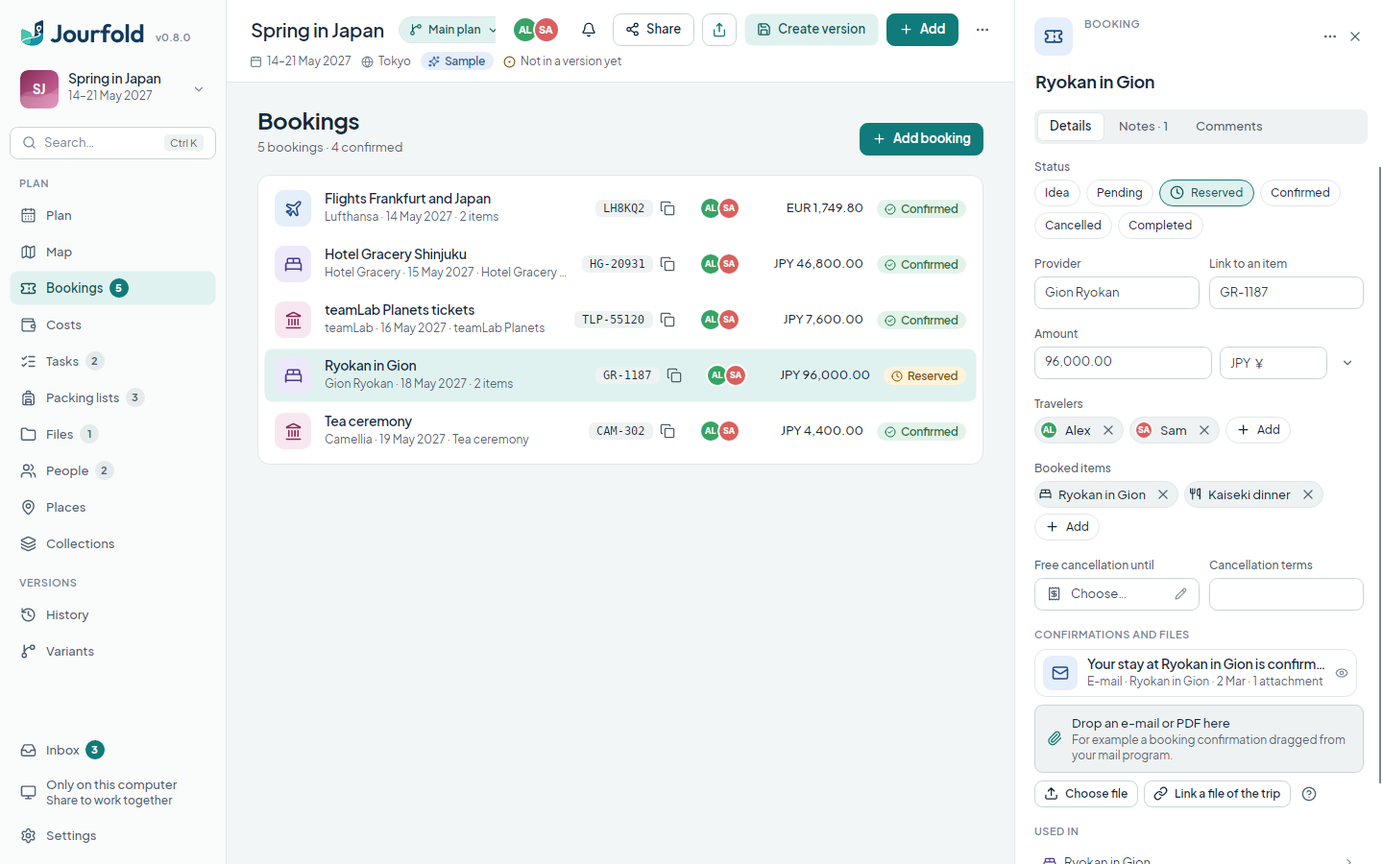
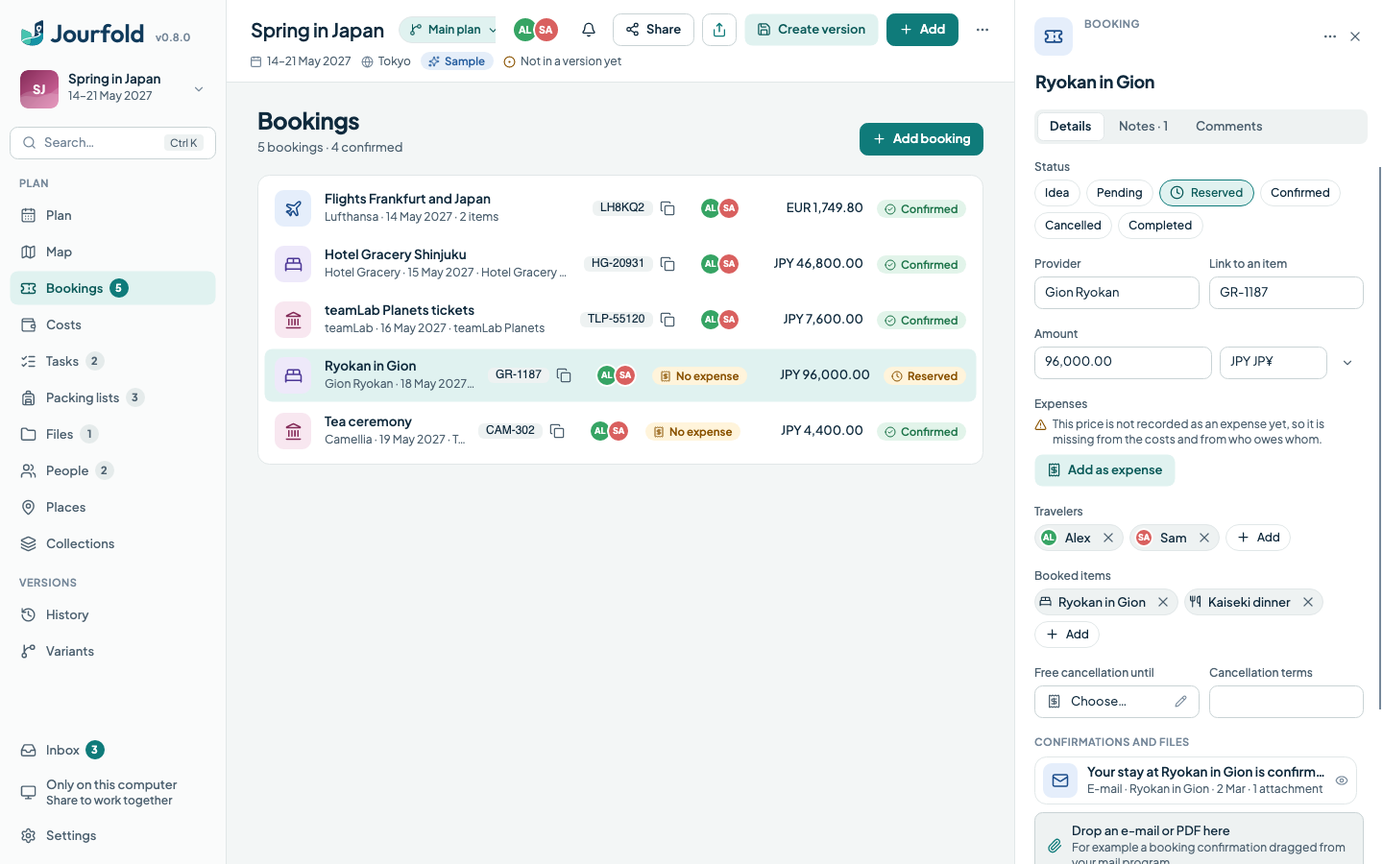
Bookings with a price but no expense are marked and become expenses in one step
The bookings list marks them No expense, their details say why it
matters and offer Add as expense, and the Costs page lists them with a
button each. The button opens the expense form filled in with the
booking's title, price and currency, paid by the local user, and the new
expense belongs to the booking. The sample trip links its paid expenses
to their bookings; the costs and booking screenshots are refreshed.

diff --git a/src/Jourfold.Desktop/Views/CollectionViews.cs b/src/Jourfold.Desktop/Views/CollectionViews.cs
@@ -51,6 +51,7 @@ public static class CollectionViews
         var bookings = trip.Entities.Values.Where(e => e.Type == "booking").OrderBy(e => (e.Data["items"] as JsonArray ?? []).Select(i => Guid.TryParse(i?.ToString(), out var id) && trip.Find(id) is { } item ? ScheduleQueries.Span(trip, item).Start : null).Where(x => x is not null).Min() ?? Instant.MaxValue).ToArray();
         if (bookings.Length == 0) return Page(w, s["Bookings"], s["BookingsHint"], Ui.Card(Ui.EmptyState("ticket", s["NoBookingsTitle"], s["NoBookingsBody"], AddButton(w, s["AddBooking"], "booking")), 0));
         var list = Ui.V(2);
+        var missing = Expenses.WithoutExpense(trip).Select(b => b.Id).ToHashSet();
         foreach (var b in bookings)
         {
             var items = (b.Data["items"] as JsonArray ?? []).Select(i => Guid.TryParse(i?.ToString(), out var id) ? trip.Find(id) : null).OfType<Entity>().ToArray();
@@ -62,10 +63,11 @@ public static class CollectionViews
             var copy = reference is null ? null : Ui.IconButton("copy", s["CopyReference"], "small").Also(c => c.Click += async (_, _) => { await m.Interaction.CopyAsync(reference); m.Interaction.Toast(s["Copied"]); });
             var refPill = reference is null ? null : Ui.H(2, new Border { Child = Ui.Text(reference).Also(t => { t.FontFamily = FontFamily.Parse("monospace"); t.FontSize = 12; }), Padding = new Thickness(8, 2), CornerRadius = new CornerRadius(6) }.Res(Border.BackgroundProperty, "Bg.Subtle"), copy);
             var travelers = PeopleNames(trip, b.Data["travelers"]).ToArray();
-            var grid = Ui.Columns("Auto,*,Auto,Auto,120,Auto",
+            var grid = Ui.Columns("Auto,*,Auto,Auto,Auto,120,Auto",
                 Ui.Tile(icon, kind, 38).Margin(0, 0, 14, 0),
                 Ui.V(2, Ui.Line(b.Title, "title"), Ui.Line(string.Join(" · ", new[] { b.Data["provider"]?["name"]?.ToString(), when, items.Length > 1 ? string.Format(s["ItemsCount"], items.Length) : items.FirstOrDefault()?.Title }.Where(x => !string.IsNullOrEmpty(x))), "caption")),
                 refPill?.Margin(12, 0), travelers.Length > 0 ? Ui.AvatarStack(travelers, 24).Margin(8, 0) : null,
+                ExpenseViews.MissingExpensePill(s, missing, b)?.Margin(8, 0),
                 Ui.Text(price, "strong").Also(t => { t.HorizontalAlignment = HorizontalAlignment.Right; t.TextAlignment = TextAlignment.Right; }),
                 Ui.Pill(s[status], si, sb, sf).Margin(14, 0, 0, 0));
             list.Children.Add(Row(w, b, grid));
@@ -81,7 +83,7 @@ public static class CollectionViews
         var expenses = trip.Entities.Values.Where(e => e.Type == "expense").OrderBy(e => e.Title, StringComparer.CurrentCulture).ToArray();
         var budgets = trip.Entities.Values.Where(e => e.Type == "budget").ToArray();
         var actions = new Control[] { AddButton(w, s["AddBudget"], "budget", false), AddButton(w, s["AddExpense"], "expense") };
-        if (expenses.Length == 0 && budgets.Length == 0) return Page(w, s["Costs"], s["CostsHint"], Ui.V(20, Ui.Card(Ui.EmptyState("wallet", s["NoCostsTitle"], s["NoCostsBody"], actions), 0), ConverterCard(w)));
+        if (expenses.Length == 0 && budgets.Length == 0) return Page(w, s["Costs"], s["CostsHint"], Ui.V(20, Ui.Card(Ui.EmptyState("wallet", s["NoCostsTitle"], s["NoCostsBody"], actions), 0), ExpenseViews.MissingExpenses(w), ConverterCard(w)));
         var tiles = new WrapPanel { ItemSpacing = 14, LineSpacing = 14 };
         foreach (var total in totals)
         {
@@ -117,7 +119,7 @@ public static class CollectionViews
             list.Children.Add(Row(w, e, grid));
         }
         var note = Ui.H(6, Ui.Icon("info", 13, "Text.Subtle"), Ui.Text(s["NoAutoConversion"], "caption"));
-        return Page(w, s["Costs"], s["CostsHint"], Ui.V(20, tiles, ExpenseViews.WhoOwesWhom(w), ConverterCard(w), Ui.Card(list, 6), note), actions);
+        return Page(w, s["Costs"], s["CostsHint"], Ui.V(20, tiles, ExpenseViews.WhoOwesWhom(w), ExpenseViews.MissingExpenses(w), ConverterCard(w), Ui.Card(list, 6), note), actions);
     }
 
     /// <summary>

diff --git a/src/Jourfold.Desktop/Views/ExpenseViews.cs b/src/Jourfold.Desktop/Views/ExpenseViews.cs
@@ -242,6 +242,44 @@ public static class ExpenseViews
         return Ui.Card(body, 18).Also(c => c.Width = 300);
     }
 
+    /// <summary>In a booking's details: the expenses recorded for it, or, when it has a price but none, a note and a button to add one.</summary>
+    public static Control? BookingExpenses(MainWindow w, Entity booking)
+    {
+        var m = w.Model; var s = m.Strings; var trip = m.Trip!;
+        if (Expenses.WithoutExpense(trip).Any(b => b.Id == booking.Id))
+        {
+            var add = Ui.Button(s["AddAsExpense"], "receipt", "soft").Also(b => b.HorizontalAlignment = HorizontalAlignment.Left);
+            add.Click += (_, _) => _ = m.AddExpenseForBookingAsync(booking.Id);
+            return Ui.V(8, Notice("triangle-alert", "Warning", s["BookingNoExpense"]), add);
+        }
+        var expenses = Expenses.ForBooking(trip, booking.Id);
+        return expenses.Count == 0 ? null : Ui.V(2, expenses.Select(e => (Control)InspectorView.Link(w, e)).ToArray());
+    }
+
+    /// <summary>A pill for the bookings list when a booking's price is not recorded as an expense yet.</summary>
+    public static Control? MissingExpensePill(Localization s, IReadOnlySet<Guid> missing, Entity booking) =>
+        missing.Contains(booking.Id) ? Ui.Pill(s["NoExpenseYet"], "receipt", "Warning.Soft", "Warning") : null;
+
+    /// <summary>On the Costs page: bookings with a price but no expense, each with a button that records it.</summary>
+    public static Control? MissingExpenses(MainWindow w)
+    {
+        var m = w.Model; var s = m.Strings; var trip = m.Trip!;
+        var missing = Expenses.WithoutExpense(trip);
+        if (missing.Count == 0) return null;
+        var list = Ui.V(4);
+        foreach (var booking in missing)
+        {
+            var price = TripSummaries.Money(booking.Data["price"])!;
+            var add = Ui.Button(s["AddAsExpense"], "plus", "small");
+            AutomationProperties.SetName(add, string.Format(s["AddAsExpenseFor"], booking.Title));
+            add.Click += (_, _) => _ = m.AddExpenseForBookingAsync(booking.Id);
+            list.Children.Add(Ui.Columns("*,Auto,Auto", Ui.Line(booking.Title).Also(t => t.VerticalAlignment = VerticalAlignment.Center), Ui.Text(Formats.Money(price.Amount, price.Currency), "strong").Margin(12, 0).Also(t => t.VerticalAlignment = VerticalAlignment.Center), add));
+        }
+        var heading = Ui.Columns("Auto,*", Ui.Icon("triangle-alert", 15, "Warning").Margin(0, 2, 8, 0).Also(i => i.VerticalAlignment = VerticalAlignment.Top),
+            Ui.V(2, Ui.Text(missing.Count == 1 ? s["BookingsWithoutExpenseOne"] : string.Format(s["BookingsWithoutExpense"], missing.Count), "h3"), Ui.Text(s["BookingsWithoutExpenseHint"], "caption").Also(t => t.TextWrapping = TextWrapping.Wrap)));
+        return Ui.Card(Ui.V(12, heading, list), 18);
+    }
+
     private static Control Notice(string icon, string brush, string text) =>
         Ui.Columns("Auto,*", Ui.Icon(icon, 13, brush).Margin(0, 2, 6, 0).Also(i => i.VerticalAlignment = VerticalAlignment.Top), Ui.Text(text, "caption").Also(t => t.TextWrapping = TextWrapping.Wrap));
 }

diff --git a/src/Jourfold.Desktop/Dialogs/Dialogs.Create.cs b/src/Jourfold.Desktop/Dialogs/Dialogs.Create.cs
@@ -126,7 +126,7 @@ public sealed partial class Dialogs
     {
         var s = S; var kind = QuickKinds.Any(k => k.Kind == request.Kind) ? request.Kind : request.Kind == "budget" ? "budget" : "activity";
         var trip = request.Trip;
-        var title = new TextBox { MinHeight = 40, FontSize = 15, Tag = "title" }; AutomationProperties.SetName(title, s["Title"]);
+        var title = new TextBox { MinHeight = 40, FontSize = 15, Tag = "title", Text = request.Title ?? "" }; AutomationProperties.SetName(title, s["Title"]);
         var date = new CalendarDatePicker { SelectedDate = request.Date.ToDateTimeUnspecified(), HorizontalAlignment = HorizontalAlignment.Stretch }; AutomationProperties.SetName(date, s["Date"]);
         var hasTime = new CheckBox { Content = s["AtATime"], IsChecked = true };
         var time = new TimePicker { Tag = "startTime", MinWidth = 0, ClockIdentifier = "24HourClock", MinuteIncrement = 5, SelectedTime = (request.Start ?? new LocalTime(10, 0)).ToTimeOnly().ToTimeSpan(), HorizontalAlignment = HorizontalAlignment.Stretch }; AutomationProperties.SetName(time, s["StartTime"]);
@@ -189,7 +189,7 @@ public sealed partial class Dialogs
         time.SelectedTimeChanged += (_, _) => UpdateTravelTime(); arrivalDate.SelectedDateChanged += (_, _) => UpdateTravelTime(); arrivalTime.SelectedTimeChanged += (_, _) => UpdateTravelTime();
         UpdateTravelTime();
         var nights = new NumericUpDown { Value = 1, Minimum = 1, Maximum = 60, Increment = 1, FormatString = "0", HorizontalAlignment = HorizontalAlignment.Stretch }; AutomationProperties.SetName(nights, s["Nights"]);
-        var amount = new NumericUpDown { Value = null, FormatString = "N2", Increment = 1, ShowButtonSpinner = false, HorizontalAlignment = HorizontalAlignment.Stretch, PlaceholderText = "0.00" }; AutomationProperties.SetName(amount, s["Amount"]);
+        var amount = new NumericUpDown { Value = request.Amount, FormatString = "N2", Increment = 1, ShowButtonSpinner = false, HorizontalAlignment = HorizontalAlignment.Stretch, PlaceholderText = "0.00" }; AutomationProperties.SetName(amount, s["Amount"]);
         var currency = new SearchChoice(Editors.Currencies, request.Currency, s["Currency"]) { Width = 130 };
         var body = new TextBox { AcceptsReturn = true, TextWrapping = TextWrapping.Wrap, MinHeight = 100, PlaceholderText = s["NoteWatermark"] }; AutomationProperties.SetName(body, s["Body"]);
         var reference = new TextBox { PlaceholderText = s["BookingReferenceHint"] }; AutomationProperties.SetName(reference, s["Reference"]);
@@ -304,7 +304,8 @@ public sealed partial class Dialogs
                 Body = body.Text,
                 Reference = reference.Text,
                 People = peopleIds.ToArray(),
-                Split = kind == "expense" ? splitDraft.Data["split"] as System.Text.Json.Nodes.JsonObject : null
+                Split = kind == "expense" ? splitDraft.Data["split"] as System.Text.Json.Nodes.JsonObject : null,
+                Related = request.Related
             };
             sheet.Close(draft);
         };

diff --git a/tests/Jourfold.Tests/ExpenseSplitTests.cs b/tests/Jourfold.Tests/ExpenseSplitTests.cs
@@ -177,6 +177,44 @@ public sealed class ExpenseSplitTests : IDisposable
         finally { w.Close(); }
     }
 
+    [AvaloniaTheory]
+    [InlineData("en", "1 booking with a price but no expense", "No expense", "Add Te Anau Lakeview Holiday Park as an expense", "Add")]
+    [InlineData("de", "1 Buchung mit Preis, aber ohne Ausgabe", "Keine Ausgabe", "Te Anau Lakeview Holiday Park als Ausgabe erfassen", "Hinzufügen")]
+    public async Task ABookingsPriceBecomesAnExpenseInOneStep(string language, string heading, string pill, string button, string add)
+    {
+        var w = await Window(language, "Light"); var m = w.Model;
+        try
+        {
+            var booking = Entity.Create("booking", "Te Anau Lakeview Holiday Park"); booking.Data["status"] = "confirmed";
+            booking.Data["price"] = new System.Text.Json.Nodes.JsonObject { ["value"] = "347.60", ["currency"] = "NZD" };
+            await m.Workspace!.EditAsync(booking);
+            m.Navigate("Bookings");
+            Assert.Contains(pill, Texts(w));
+            m.Navigate("Costs");
+            Assert.Contains(heading, Texts(w));
+
+            var adding = m.AddExpenseForBookingAsync(booking.Id);
+            await Probe.Until(() => Probe.All<TextBox>(Probe.Sheet(w)).Any(t => t.Tag as string == "title"));
+            var sheet = Probe.Sheet(w);
+            Assert.Equal("Te Anau Lakeview Holiday Park", Probe.Tagged<TextBox>(sheet, "title").Text);
+            Assert.Equal(347.60m, Probe.All<NumericUpDown>(sheet).Single(n => AutomationProperties.GetName(n) == m.Strings["Amount"]).Value);
+            Probe.Click(sheet, add);
+            await adding;
+
+            var expense = Assert.Single(Expenses.ForBooking(m.Trip!, booking.Id));
+            Assert.Equal(("347.60", "NZD"), (expense.Data["amount"]!["value"]!.ToString(), expense.Data["amount"]!["currency"]!.ToString()));
+            Assert.Empty(Expenses.WithoutExpense(m.Trip!));
+            m.Navigate("Plan"); m.Navigate("Costs");
+            Assert.DoesNotContain(heading, Texts(w));
+            Assert.DoesNotContain(Probe.All<Button>(w), b => AutomationProperties.GetName(b) == button);
+            // The booking's details link to its expense now.
+            m.Navigate("Bookings"); m.Selected = m.Trip!.Find(booking.Id); Probe.ShowDetails(w);
+            Assert.DoesNotContain(pill, Texts(w));
+            await Probe.Until(() => Probe.All<Button>(w.FindControl<Control>("InspectorHost")!).Any(b => AutomationProperties.GetName(b) == "Te Anau Lakeview Holiday Park"));
+        }
+        finally { w.Close(); }
+    }
+
     private async Task<MainWindow> Window(string language, string theme)
     {
         var (path, p) = await Trip();

diff --git a/src/Jourfold.Application/SampleTrip.cs b/src/Jourfold.Application/SampleTrip.cs
@@ -151,8 +151,8 @@ public static class SampleTrip
             return b;
         }
         var flights = Booking("Flights Frankfurt and Japan", "Lufthansa", "LH8KQ2", "confirmed", "1749.80", "EUR", outbound, homebound);
-        Booking("Hotel Gracery Shinjuku", "Hotel Gracery", "HG-20931", "confirmed", "46800", "JPY", hotel);
-        Booking("teamLab Planets tickets", "teamLab", "TLP-55120", "confirmed", "7600", "JPY", planets);
+        var graceryBooking = Booking("Hotel Gracery Shinjuku", "Hotel Gracery", "HG-20931", "confirmed", "46800", "JPY", hotel);
+        var teamLabBooking = Booking("teamLab Planets tickets", "teamLab", "TLP-55120", "confirmed", "7600", "JPY", planets);
         Booking("Ryokan in Gion", "Gion Ryokan", "GR-1187", "reserved", "96000", "JPY", stay2, kaiseki);
         Booking("Tea ceremony", "Camellia", "CAM-302", "confirmed", "4400", "JPY", tea);
 
@@ -163,6 +163,8 @@ public static class SampleTrip
         var deposit = Money("expense", "Hotel Gracery deposit", "46800", "JPY", payer: alex);
         deposit.Data["converted"] = new JsonObject { ["value"] = "285.48", ["currency"] = "EUR", ["rate"] = "0.0061", ["rate_date"] = start.PlusDays(-20).ToString("yyyy-MM-dd", CultureInfo.InvariantCulture), ["source"] = "card" };
         var tickets = Money("expense", "teamLab tickets", "7600", "JPY", payer: sam);
+        deposit.Data["related"] = new JsonArray(new JsonObject { ["type"] = "booking", ["id"] = graceryBooking.Id.ToString() });
+        tickets.Data["related"] = new JsonArray(new JsonObject { ["type"] = "booking", ["id"] = teamLabBooking.Id.ToString() });
         tickets.Data["converted"] = new JsonObject { ["value"] = "46.36", ["currency"] = "EUR", ["rate"] = "0.0061", ["rate_date"] = start.PlusDays(-12).ToString("yyyy-MM-dd", CultureInfo.InvariantCulture), ["source"] = "card" };
         Money("expense", "Rail passes", "100000", "JPY", payer: sam);
         Money("expense", "Food and snacks", "60000", "JPY", estimated: true);

diff --git a/src/Jourfold.Desktop/MainViewModel.Costs.cs b/src/Jourfold.Desktop/MainViewModel.Costs.cs
@@ -63,6 +63,23 @@ public partial class MainViewModel
         return true;
     }
 
+    /// <summary>
+    /// Records a booking's price as an expense: the add-expense form opens with the booking's title, price and
+    /// currency, paid by the local user, and the new expense belongs to the booking. Nothing is added when it is cancelled.
+    /// </summary>
+    public Task AddExpenseForBookingAsync(Guid bookingId) => RunEditAsync(async () =>
+    {
+        if (Workspace?.State.Trip is not { } trip || trip.Find(bookingId) is not { Type: "booking" } booking) return;
+        var start = Expenses.FromBooking(booking);
+        var price = TripSummaries.Money(start.Data["amount"])!;
+        var request = new QuickAddRequest("expense", trip, StartDate, null, null, ScheduleQueries.TripZone(trip).Id, Me?.Id, false, price.Currency) { Title = start.Title, Amount = price.Amount, Related = booking.Id };
+        if (await Interaction.QuickAddAsync(request) is not { } draft) return;
+        var (main, edits) = Jourfold.Application.QuickAdd.Build(draft, Workspace.State.Trip);
+        await Workspace.ApplyAsync(edits);
+        Interaction.Toast(string.Format(Strings["ExpenseAddedFor"], booking.Title));
+        Selected = Workspace.State.Trip.Find(main.Id);
+    });
+
     public Task SetSplitMethodAsync(Guid expenseId, SplitMethod method) => EditExpenseAsync(expenseId, (trip, e) => Expenses.ChangeMethod(trip, e, method));
 
     public Task SetSplitPersonAsync(Guid expenseId, Guid person, bool shares) => EditExpenseAsync(expenseId, (trip, e) => Expenses.WithPerson(trip, e, person, shares));

diff --git a/src/Jourfold.Desktop/Interaction.cs b/src/Jourfold.Desktop/Interaction.cs
@@ -42,7 +42,15 @@ public sealed record PayRequest(TripSnapshot Trip, IReadOnlyList<Entity> People,
 /// <summary>The open items a person chose to settle now.</summary>
 public sealed record PayAnswer(Guid Person, IReadOnlyList<DebtKey> Items);
 public sealed record FormField(string Key, string Label, string Kind = "text", string Value = "", IReadOnlyList<Choice>? Choices = null, bool Required = false, string? Hint = null);
-public sealed record QuickAddRequest(string Kind, TripSnapshot Trip, LocalDate Date, LocalTime? Start, Duration? Length, string Zone, Guid? Person, bool ChooseType, string Currency);
+public sealed record QuickAddRequest(string Kind, TripSnapshot Trip, LocalDate Date, LocalTime? Start, Duration? Length, string Zone, Guid? Person, bool ChooseType, string Currency)
+{
+    /// <summary>A title to start with, for example a booking's when its price becomes an expense.</summary>
+    public string? Title { get; init; }
+    /// <summary>An amount to start with, in <see cref="Currency"/>.</summary>
+    public decimal? Amount { get; init; }
+    /// <summary>What the new expense belongs to, such as the booking it pays for.</summary>
+    public Guid? Related { get; init; }
+}
 public sealed record PaletteChoice(string Id, string Title, string? Subtitle, string Icon, string Group, string? Shortcut);
 public sealed record ConflictPrompt(string Title, string Field, string Current, string Incoming, IReadOnlyList<string> Actions, string CurrentRaw);
 public sealed record ConflictAnswer(string Action, string? Text = null);

diff --git a/src/Jourfold.Application/QuickAdd.cs b/src/Jourfold.Application/QuickAdd.cs
@@ -37,6 +37,8 @@ public sealed record QuickAddDraft(string Kind, string Title)
     public IReadOnlyList<Guid> People { get; init; } = [];
     /// <summary>For an expense, how it is divided, as TravelRepo's <see cref="Expenses"/> wrote it; null divides it equally among all travellers.</summary>
     public JsonObject? Split { get; init; }
+    /// <summary>What the item belongs to, such as the booking an expense pays for.</summary>
+    public Guid? Related { get; init; }
 }
 
 /// <summary>Builds canonical entities for Quick Add. The result is applied as one undoable repository command.</summary>
@@ -143,6 +145,7 @@ public static class QuickAdd
                     main.Data["estimated"] = false;
                     if (draft.People.Count > 0) main.Data["paid_by"] = new JsonArray(draft.People.Select(p => (JsonNode?)JsonValue.Create(p.ToString())).ToArray());
                     if (draft.Split is { } split) main.Data["split"] = split.DeepClone();
+                    if (draft.Related is { } related && trip.Find(related) is { } target) main.Data["related"] = new JsonArray(new JsonObject { ["type"] = target.Type, ["id"] = target.Id.ToString() });
                 }
                 break;
             case "collection":

diff --git a/src/Jourfold.Desktop/Views/InspectorView.cs b/src/Jourfold.Desktop/Views/InspectorView.cs
@@ -662,6 +662,8 @@ public static class InspectorView
         body.Children.Add(Field(s["Status"], Editors.StatusChips(w, e.Id, e.Data["status"]?.ToString(), ["idea", "pending", "reserved", "confirmed", "cancelled", "completed"])));
         body.Children.Add(Ui.Columns("*,*", Field(s["Provider"], Editors.Text(w, e.Id, "provider/name", s["Provider"], e.Data["provider"]?["name"]?.ToString())), Field(s["Reference"], Editors.Text(w, e.Id, "reference", s["Reference"], e.Data["reference"]?.ToString())).Margin(10, 0, 0, 0)));
         body.Children.Add(Field(s["Amount"], Editors.Money(w, e.Id, "price", s["Amount"], e.Data["price"])));
+        // The price is what it costs; the expense is what was paid, and only that counts in the costs.
+        if (ExpenseViews.BookingExpenses(w, e) is { } expenses) body.Children.Add(Field(s["Expenses"], expenses));
         body.Children.Add(Field(s["Travelers"], Editors.References(w, e.Id, "travelers", s["Travelers"], "person")));
         // The plans and the booking point to each other; a plan leaves the booking it had.
         body.Children.Add(Field(s["BookedItems"], Editors.References(w, e.Id, "items", s["BookedItems"], "schedule_item",

diff --git a/docs/user-guide.md b/docs/user-guide.md
@@ -69,7 +69,7 @@ The bell next to the people in the header counts reminders: free cancellation de
 
 ## Bookings, costs, tasks and files
 
-**Bookings** lists reservations with their reference (click the copy icon), price, travellers and status. Bookings and plans have a **Confirmations and files** section: drag a confirmation e-mail or PDF onto it, or choose a file. Thunderbird, eM Client and Apple Mail let you drag an e-mail directly; Gmail and Outlook on the web download it as an `.eml` file first, and classic Outlook can print it to PDF. The help button next to the area explains each. Click a confirmation to open it in Jourfold's document window, which stays open beside the plan. It shows PDFs page by page with zoom and search (Ctrl+F), and e-mails with sender, date, attachments and the message in its original layout; **Text** shows the plain text instead, and Jourfold remembers your choice. An attachment can be opened there or added to the trip next to the e-mail. Scripts, forms and frames in an e-mail are removed, and images from the internet are only loaded when you choose **Load images** for that e-mail, because loading them tells the sender that you opened it. Links ask before they open and show where they really go. An e-mail laid out wider than the window is shrunk to fit. **Costs** totals expenses per currency and compares them with budgets. Amounts stay in their own currency. An expense is divided equally among all travellers unless you change its **Split**, right when you add it or later in the details: equally among some people, by amounts, by shares (such as 2 for a couple) or by percent. If the parts do not add up, the details say how much is left and the list shows **Check split**. **Paying back** in the details lists who owes whom for that expense; tick a line once it is paid back. **Who owes whom** on the Costs page shows each person's balance per currency and the fewest payments that settle everything. **Pay back…** opens the pay function: choose a person and the open items to settle now, see what that comes to after what two people owe each other is set off, and mark them as paid in one step. **Mark all as paid** is for when everyone has made the payments shown. Estimates are divided only once they are paid. For a payment in another currency, enter under **Charged** in its details what the card statement shows in your home currency; the rate is kept with it. Costs then also show a total in the home currency (chosen on that card), and **Who owes whom** and **Pay back…** work in it: exactly where a charged amount was entered, otherwise estimated with reference rates if you allowed them, marked with ≈. **Each currency** shows debts in their own currencies instead. Nothing is converted silently. The **Currency converter** below the totals works offline with the European Central Bank's reference rates, which Jourfold fetches at most twice a day after you allow it (also under Settings, **Weather**); nothing about the trip is sent. A booking lists the plans it is for; adding or removing one there changes the plan as well. **Tasks** works like a checklist; type a task and press Enter. Packing lists have their own page (see below). **Files** shows attached tickets, PDFs and photos. Drop files anywhere on the window to add them.
+**Bookings** lists reservations with their reference (click the copy icon), price, travellers and status. Bookings and plans have a **Confirmations and files** section: drag a confirmation e-mail or PDF onto it, or choose a file. Thunderbird, eM Client and Apple Mail let you drag an e-mail directly; Gmail and Outlook on the web download it as an `.eml` file first, and classic Outlook can print it to PDF. The help button next to the area explains each. Click a confirmation to open it in Jourfold's document window, which stays open beside the plan. It shows PDFs page by page with zoom and search (Ctrl+F), and e-mails with sender, date, attachments and the message in its original layout; **Text** shows the plain text instead, and Jourfold remembers your choice. An attachment can be opened there or added to the trip next to the e-mail. Scripts, forms and frames in an e-mail are removed, and images from the internet are only loaded when you choose **Load images** for that e-mail, because loading them tells the sender that you opened it. Links ask before they open and show where they really go. An e-mail laid out wider than the window is shrunk to fit. **Costs** totals expenses per currency and compares them with budgets. Amounts stay in their own currency. An expense is divided equally among all travellers unless you change its **Split**, right when you add it or later in the details: equally among some people, by amounts, by shares (such as 2 for a couple) or by percent. If the parts do not add up, the details say how much is left and the list shows **Check split**. **Paying back** in the details lists who owes whom for that expense; tick a line once it is paid back. **Who owes whom** on the Costs page shows each person's balance per currency and the fewest payments that settle everything. **Pay back…** opens the pay function: choose a person and the open items to settle now, see what that comes to after what two people owe each other is set off, and mark them as paid in one step. **Mark all as paid** is for when everyone has made the payments shown. Estimates are divided only once they are paid. For a payment in another currency, enter under **Charged** in its details what the card statement shows in your home currency; the rate is kept with it. Costs then also show a total in the home currency (chosen on that card), and **Who owes whom** and **Pay back…** work in it: exactly where a charged amount was entered, otherwise estimated with reference rates if you allowed them, marked with ≈. **Each currency** shows debts in their own currencies instead. Nothing is converted silently. A booking's price only says what it costs; a booking with a price but no expense is marked **No expense** in Bookings and listed on the Costs page, where **Add as expense** opens the expense form filled in with its title, price and currency. The **Currency converter** below the totals works offline with the European Central Bank's reference rates, which Jourfold fetches at most twice a day after you allow it (also under Settings, **Weather**); nothing about the trip is sent. A booking lists the plans it is for; adding or removing one there changes the plan as well. **Tasks** works like a checklist; type a task and press Enter. Packing lists have their own page (see below). **Files** shows attached tickets, PDFs and photos. Drop files anywhere on the window to add them.
 
 ### Packing lists
 

diff --git a/docs/screenshots.md b/docs/screenshots.md
@@ -48,9 +48,9 @@ A packing list with groups, who brings what, what each person has packed, and on
 
 ![Packing view for Japan with the list chip, filters for all, mine and unassigned, items grouped into documents, electronics, clothes and food, and chips for Alex and Sam with check marks where they have packed](screenshots/packing.png)
 
-A booking with its confirmation e-mail attached, and the drop area for more:
+A booking with its confirmation e-mail attached, and the drop area for more. Bookings with a price but no expense yet are marked, and the details offer to add one:
 
-![Bookings page with a ryokan booking selected; the inspector lists the attached confirmation e-mail under Confirmations and files](screenshots/booking-confirmation.png)
+![Bookings page with the ryokan and the tea ceremony marked No expense; the ryokan is selected and the inspector says its price is not recorded as an expense yet, with a button to add it as an expense, and lists the attached confirmation e-mail under Confirmations and files](screenshots/booking-confirmation.png)
 
 The document window with the confirmation e-mail and with its PDF attachment, searched for a time:
 
